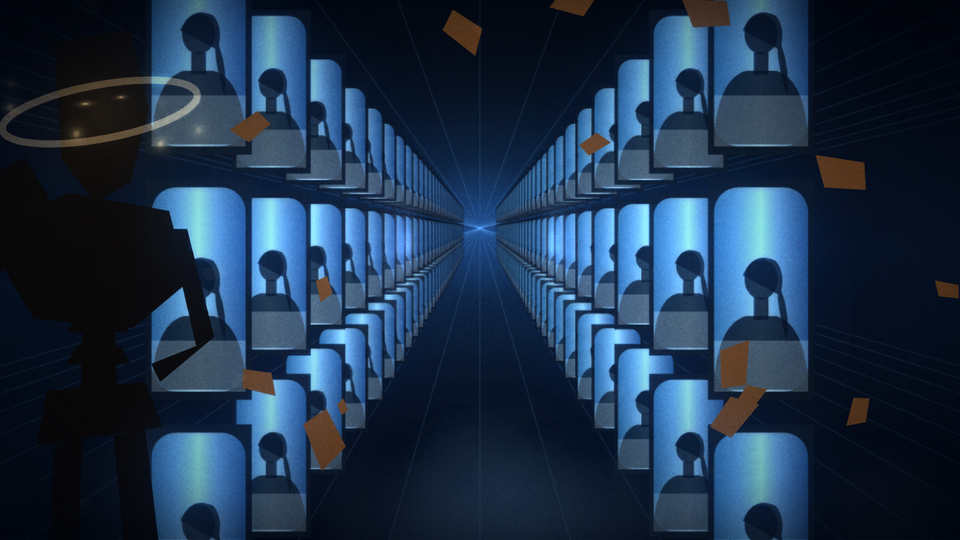
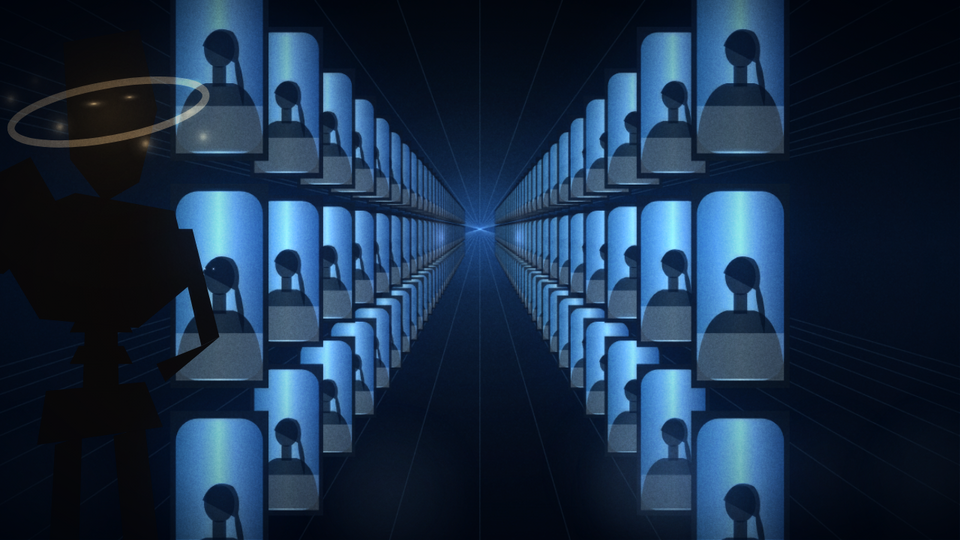
feat(art): cutscenes v2 — all 12 scenes rebuilt + archive_gate, echo_reveal; no on-screen text
Claude-Session: https://claude.ai/code/session_011riFv5DJ17e4oyhEAbbRPt

diff --git a/src/js/art/scenes.js b/src/js/art/scenes.js
@@ -2287,8 +2287,10 @@
       ctx.restore();
     }
     // mask shards flying at camera
-    if (b > 0) {
+    if (b > 0 && b < 3) {
+      ctx.globalAlpha = 1 - sstep(1.5, 3, b);
       debrisBurst(ctx, t, TB, 480, 250, 40, 99, 900, 0, '#6a4320', 22);
+      ctx.globalAlpha = 1;
       ctx.save(); ctx.globalCompositeOperation = 'lighter';
       debrisBurst(ctx, t, TB, 480, 250, 30, 98, 700, 0, rgba(C.gold, 0.5 * Math.exp(-b)), 10);
       ctx.restore();
